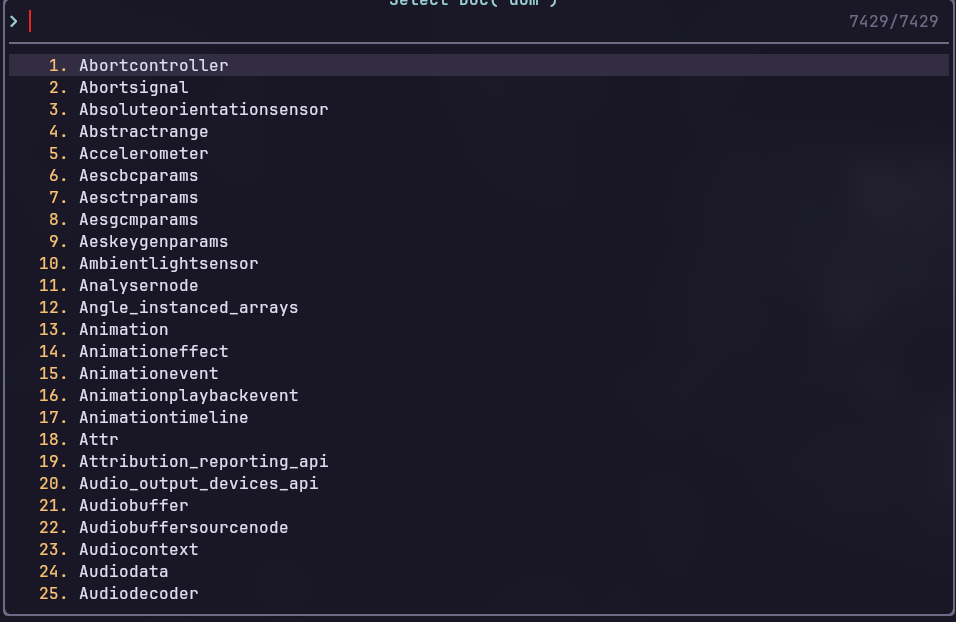
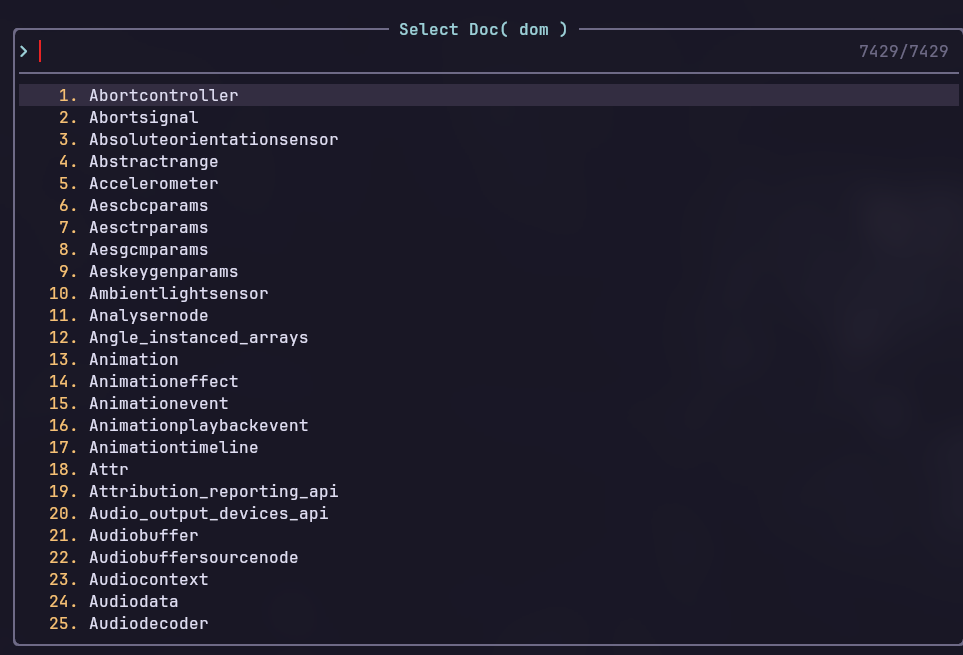
fix: cropped screenshot and typo

Changed region(s): [[0.0, 0.0, 1.0, 1.0]]

diff --git a/README.md b/README.md
@@ -4,7 +4,7 @@ A [devdocs](https://devdocs.io) client
 
 ![Select from Docs](./assets/select-doc.png)
 ![Select Doc](./assets/select-doc-dom.png)
-![Selected Docs](./assets/selected-doc.png.png)
+![Selected Docs](./assets/selected-doc.png)
 
 ## Installation
 
